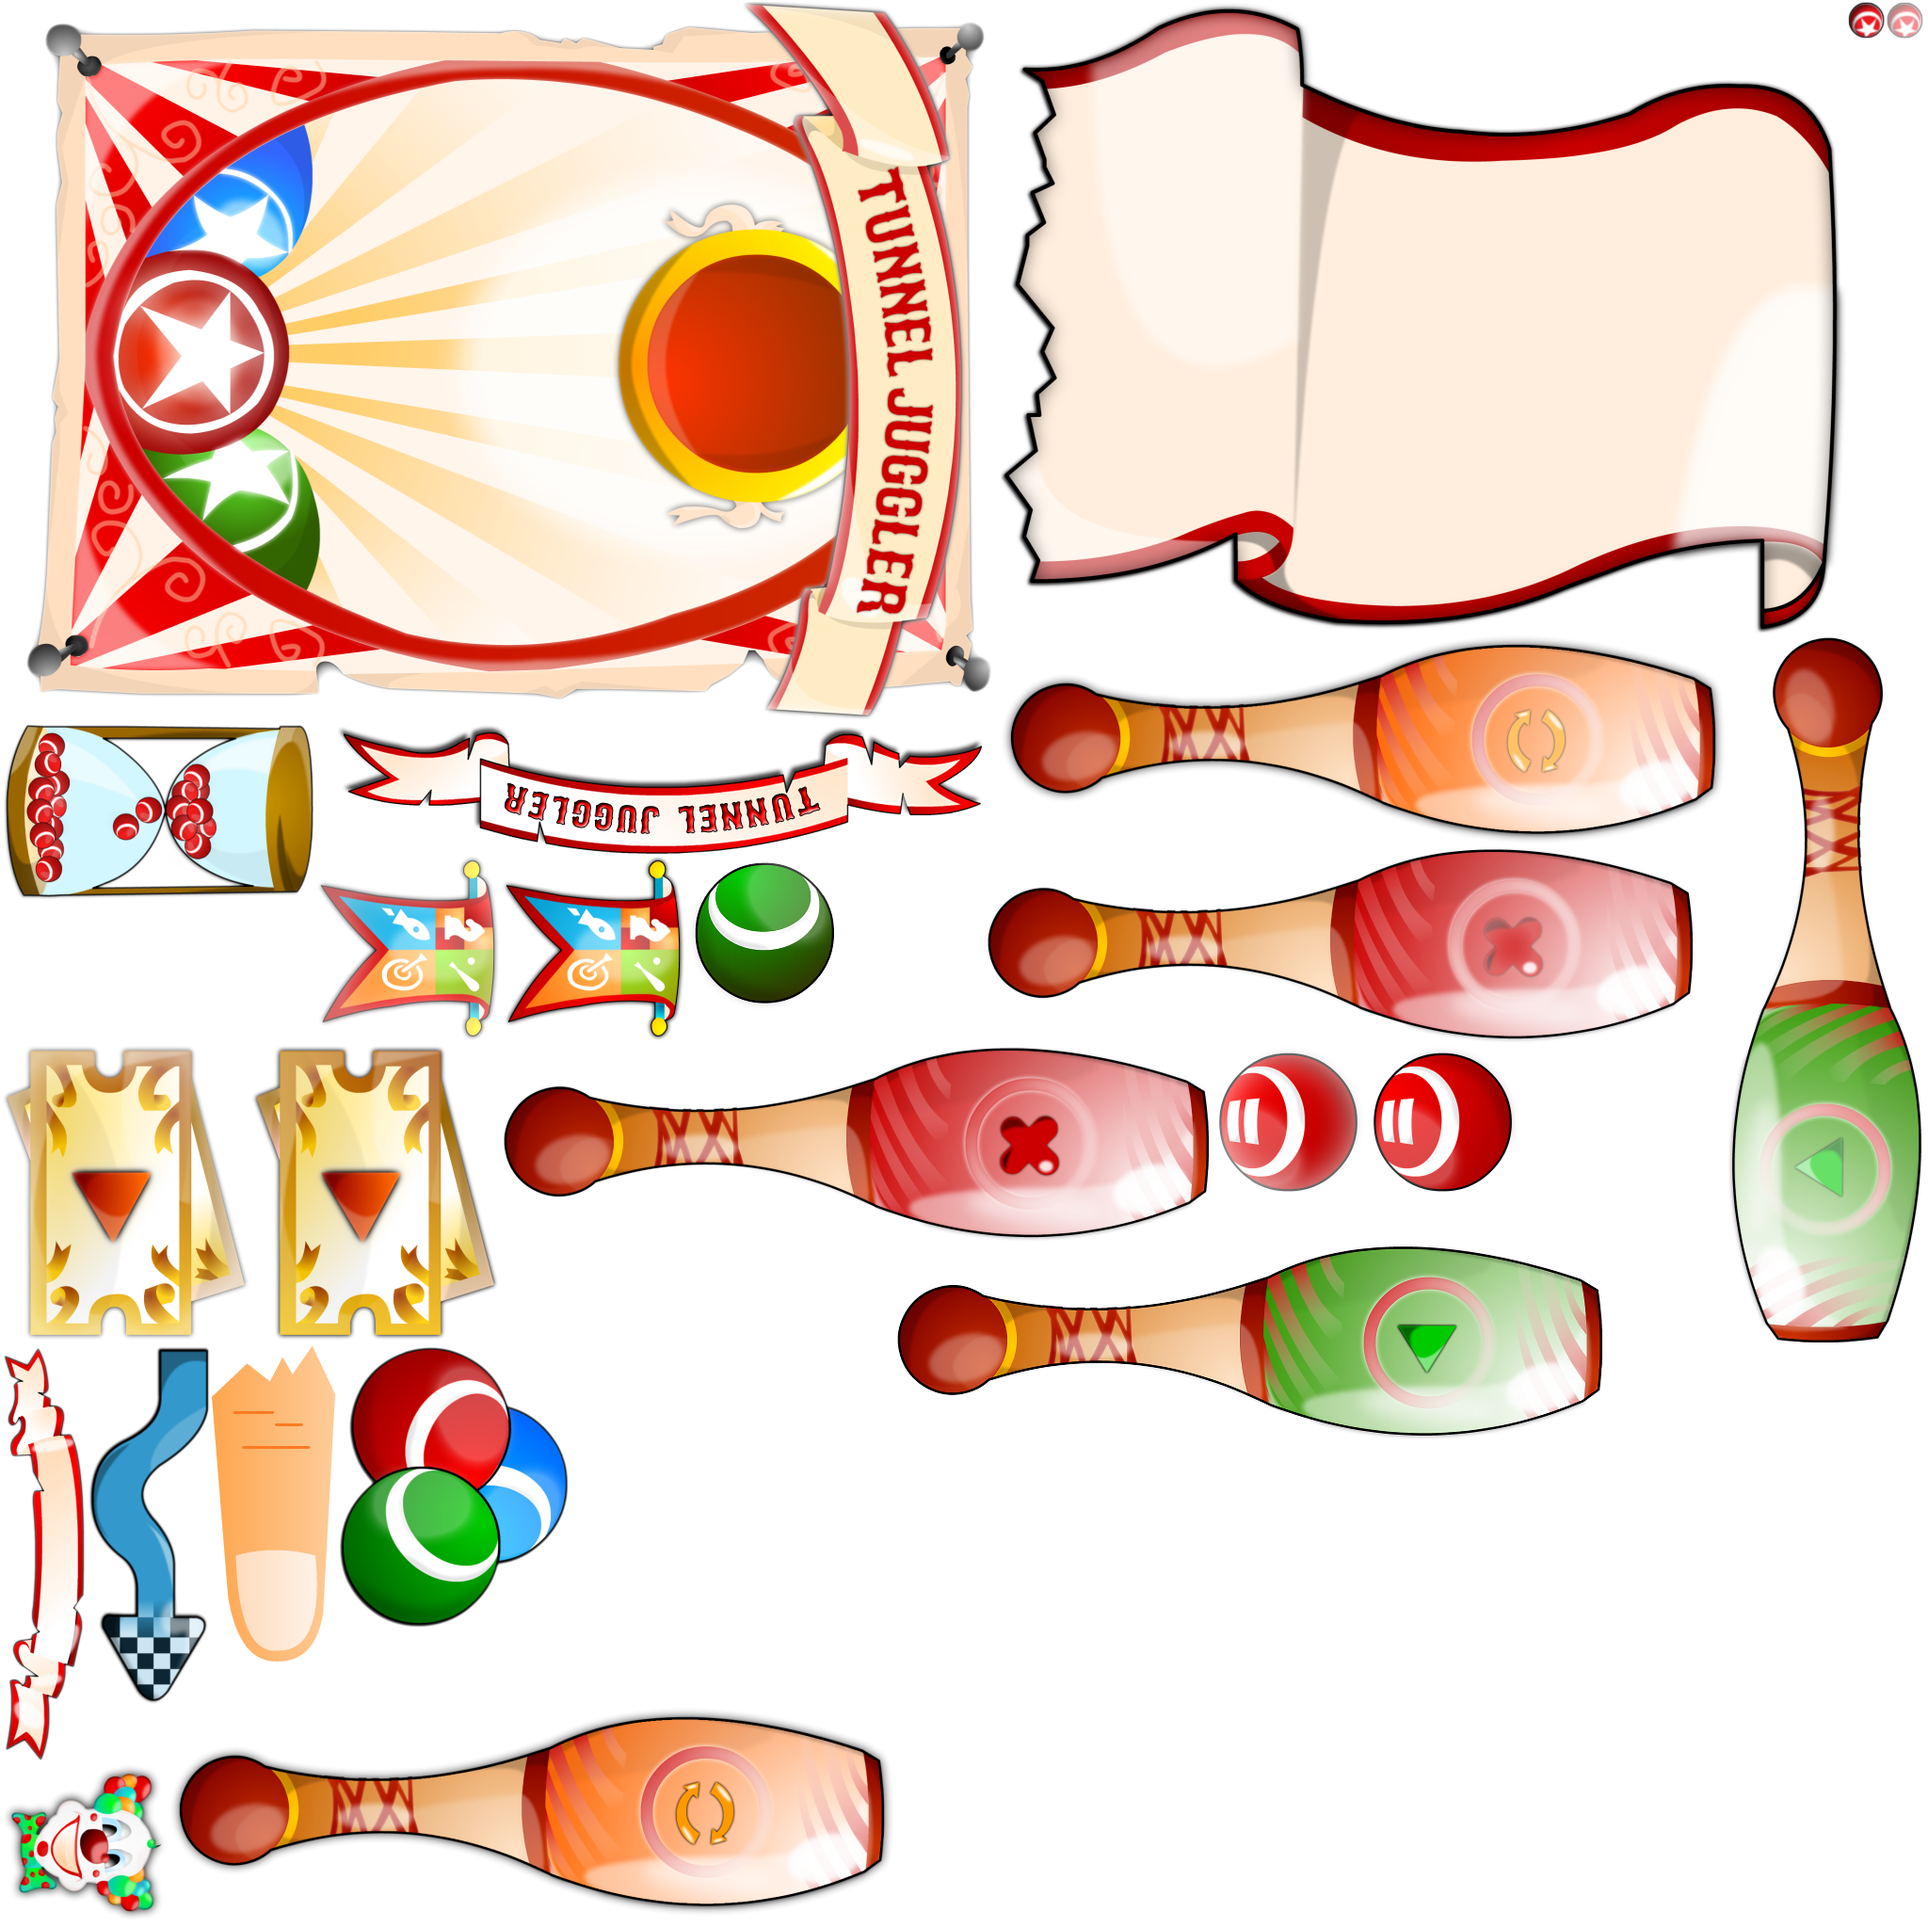
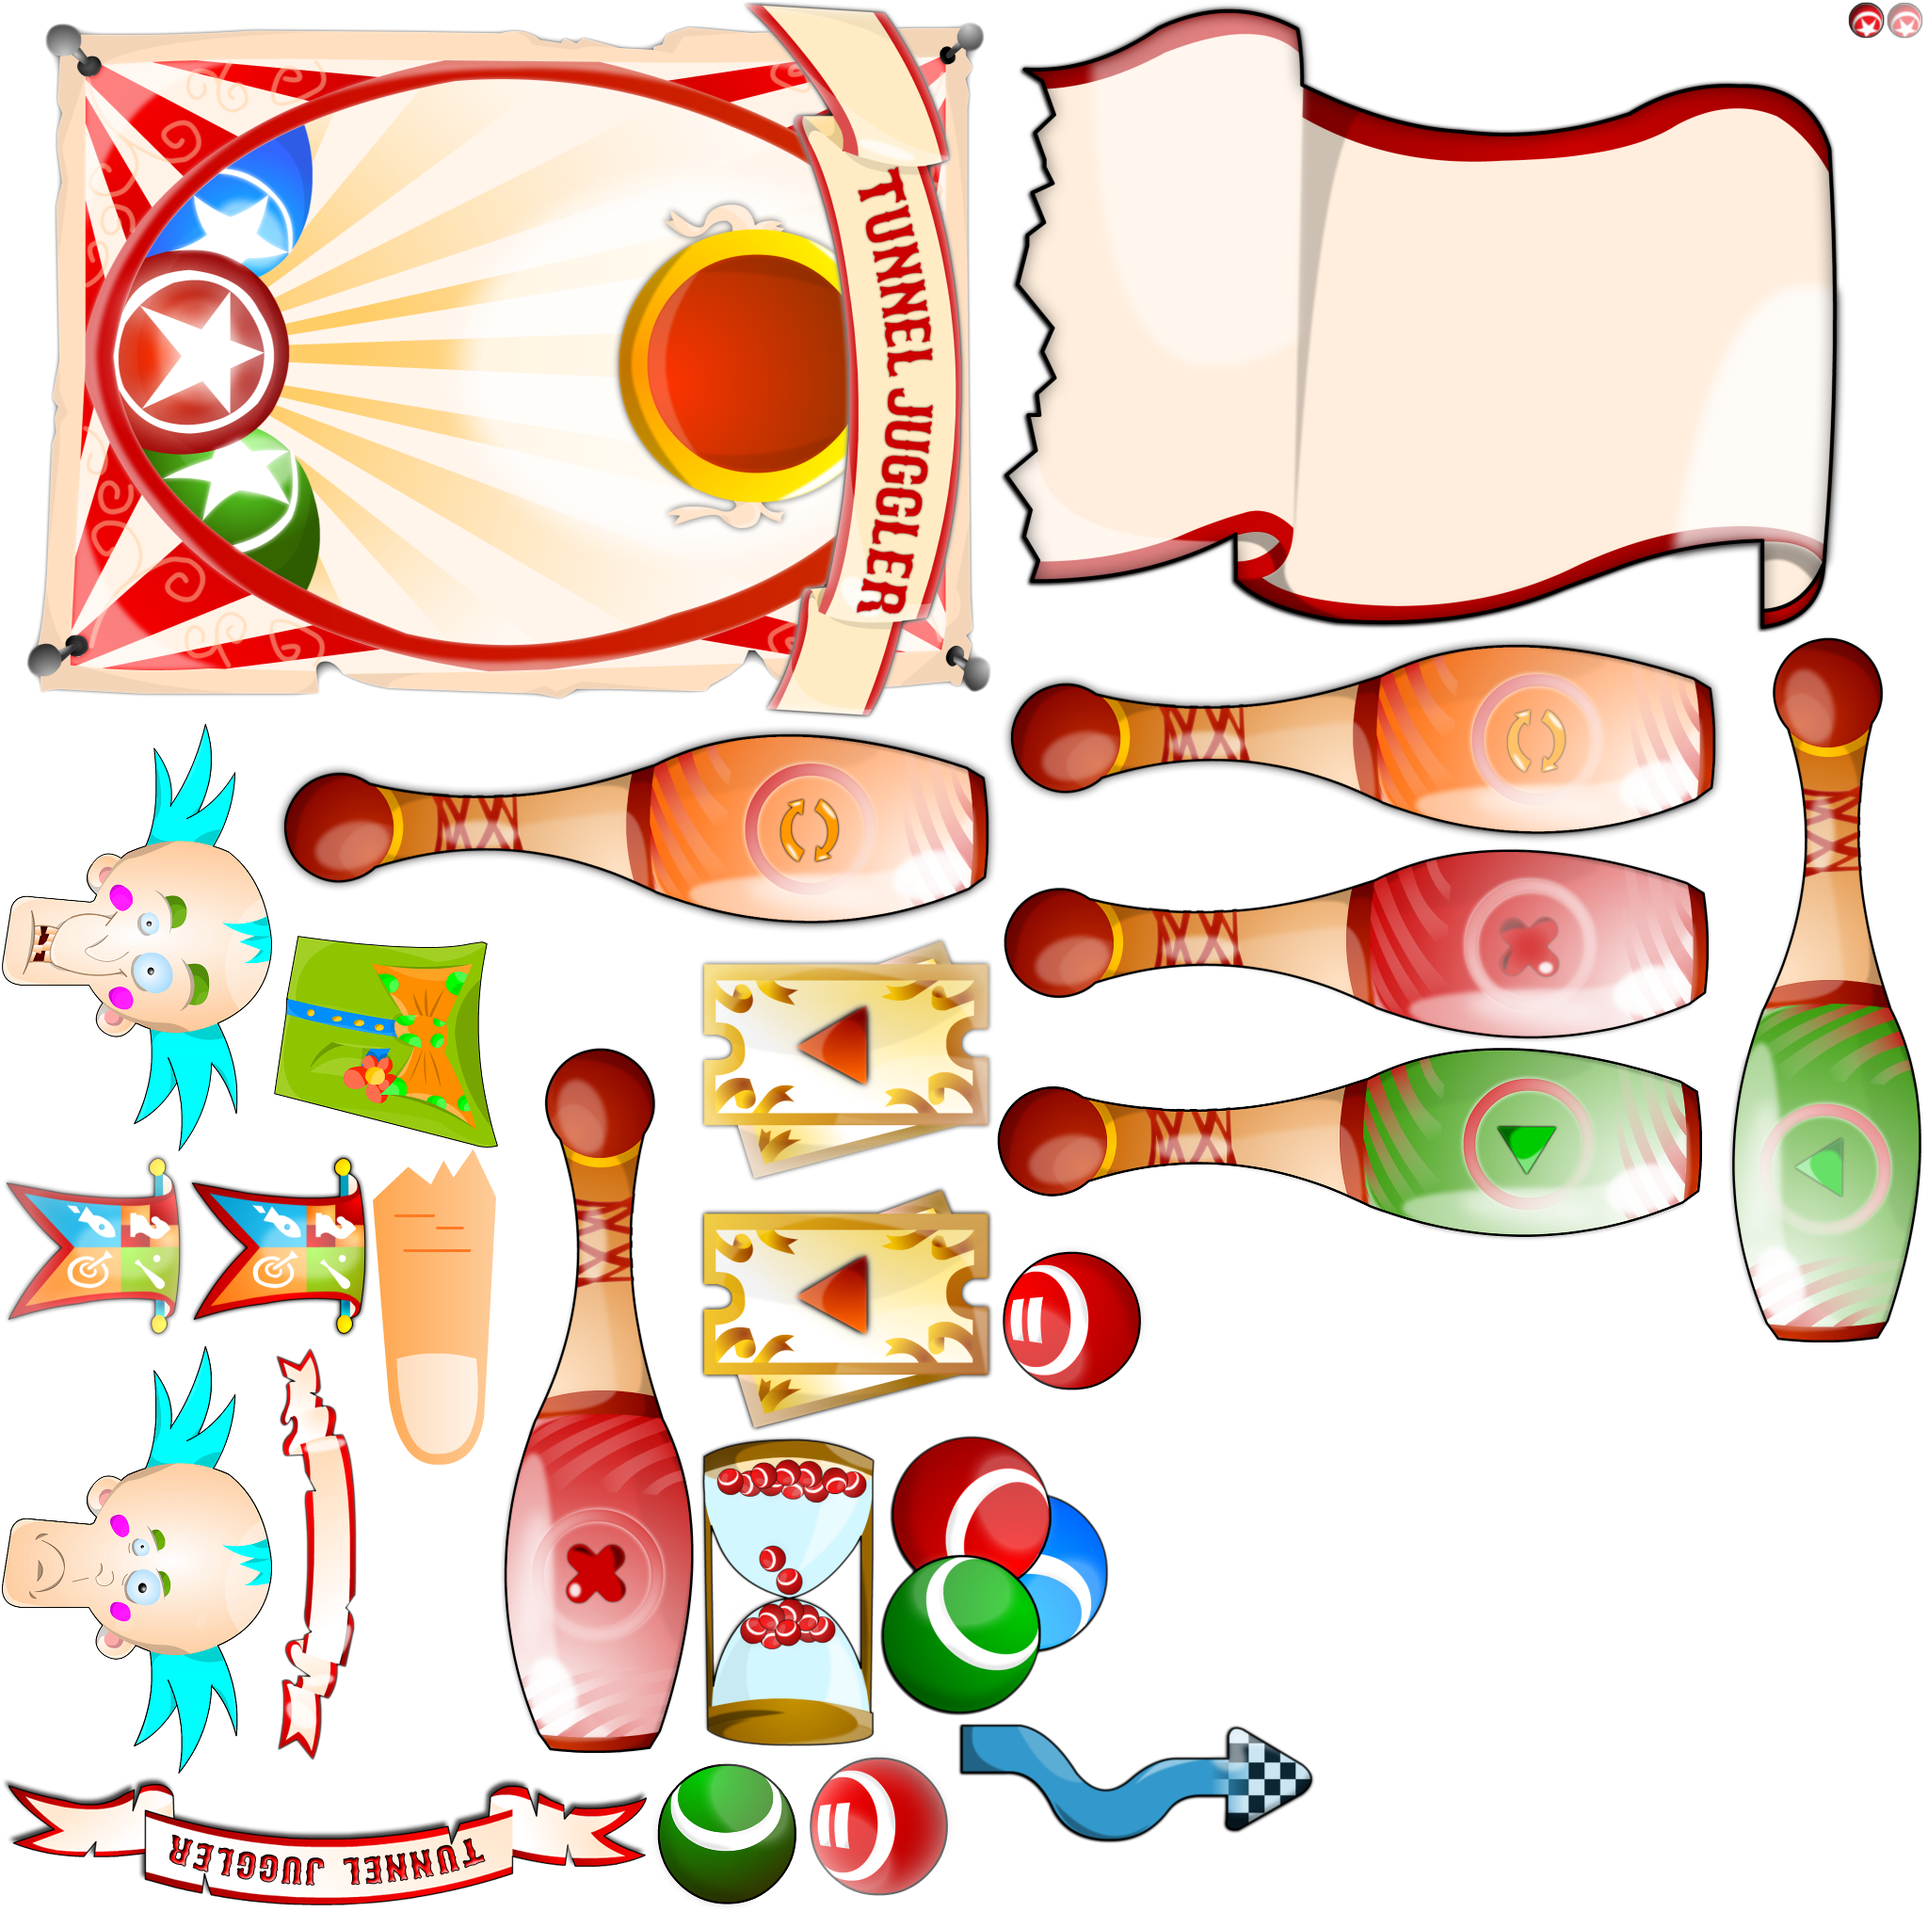
Added all remaining/improved graphics.

Changed region(s): [[0.0, 0.375, 0.9062, 1.0]]

diff --git a/TunnelJoggler/Scenes/MainScene.mm b/TunnelJoggler/Scenes/MainScene.mm
@@ -21,6 +21,7 @@
 - (void) createScoreLabelWithScore: (int) score;
 - (void) createCurrentLevelLabelWithLevel: (int) level;
 - (void) createExperienceDisplay: (int) experienceLevel;
+- (void) createVersionLabel;
 
 @property (retain, nonatomic, readwrite) CCMenuItem *itemUserPicture;
 @property (retain, nonatomic, readwrite) CCMenu *playerPictureMenu;
@@ -80,8 +81,14 @@
             [self addChild:menuPlay];
             
             //Clown face
-            CCSprite *spriteFromImageNormal = [CCSprite spriteWithSpriteFrameName: @"clown-face-happy.png"];
-            CCSprite *spriteFromImageSelected = [CCSprite spriteWithSpriteFrameName: @"clown-face-happy.png"];
+            CCSprite *spriteFromImageNormal = [CCSprite spriteWithSpriteFrameName: @"clown-happy.png"];
+            CCSprite *spriteFromImageSelected = [CCSprite spriteWithSpriteFrameName: @"clown-happy.png"];
+            spriteFromImageNormal.scale = 0.55;
+            spriteFromImageSelected.scale = 0.55;
+            if ([[UIDevice currentDevice] userInterfaceIdiom] == UIUserInterfaceIdiomPad) {
+                spriteFromImageNormal.scale = 0.65;
+                spriteFromImageSelected.scale = 0.65;
+            }
             [self setUserPictureForNormalState: spriteFromImageNormal
                                  selectedState: spriteFromImageSelected];
             
@@ -100,6 +107,8 @@
             
             // Current level
             [self createCurrentLevelLabelWithLevel:[p.currentLevel intValue]];
+            
+            [self createVersionLabel];
             
             //Game center
             CCMenuItem *itemGameCenter = [SoundMenuItem itemFromNormalSpriteFrameName:@"game-center-off.png" selectedSpriteFrameName:@"game-center-on.png" target:self selector:@selector(highScoreGameCenter:)];
@@ -172,6 +181,19 @@
     CGSize s = [[CCDirector sharedDirector] winSize];
     [_currentLevelLabel setPosition:ccp(s.width/2.48, s.height/2)];
     _currentLevelLabel.rotation = 90;
+}
+
+- (void) createVersionLabel {
+    float fontSize = 10.0;
+    if ([[UIDevice currentDevice] userInterfaceIdiom] == UIUserInterfaceIdiomPad) {
+        fontSize = 20.0;
+    }
+    CCLabelTTF *verLabel = [CCLabelTTF labelWithString:@"v1.0.0 beta" fontName:@"BosoxRevised.ttf" fontSize:fontSize];
+    verLabel.color = ccc3(255, 255, 255);
+    [self addChild:verLabel z:5];
+    CGSize s = [[CCDirector sharedDirector] winSize];
+    [verLabel setPosition:ccp(fontSize, s.height/2)];
+    verLabel.rotation = 90;
 }
 
 - (void) createExperienceDisplay: (int) experienceLevel {
@@ -268,7 +290,10 @@
                             ];
     self.itemUserPicture.isEnabled = NO;
     self.playerPictureMenu = [CCMenu menuWithItems: self.itemUserPicture, nil];
-    self.playerPictureMenu.position = ccp(s.width/1.33, s.height/2);
+    self.playerPictureMenu.position = ccp(s.width/1.22, s.height/1.52);
+    if ([[UIDevice currentDevice] userInterfaceIdiom] == UIUserInterfaceIdiomPad) {
+        self.playerPictureMenu.position = ccp(s.width/1.23, s.height/1.65);
+    }
     self.playerPictureMenu.isTouchEnabled = YES;
     [itemUserPicture runAction:[CCRepeatForever actionWithAction:seq]];
     [self addChild:self.playerPictureMenu z:3];

diff --git a/TunnelJoggler/HUD.mm b/TunnelJoggler/HUD.mm
@@ -74,15 +74,23 @@
         [self addChild:_pauseBackgroundColor z:1];
         _pauseBackgroundColor.visible = NO;
         
-        _happyClown = [CCSprite spriteWithSpriteFrameName:@"clown-face-happy.png"];
+        _clownBody = [CCSprite spriteWithSpriteFrameName:@"clown-body.png"];
+        [_clownBody setPosition:ccp(s.width/1.7, s.height/2)];
+        [self addChild:_clownBody z:2];
+        _clownBody.visible = NO;
+//        _clownBody.scale = 2.0;
+        
+        _happyClown = [CCSprite spriteWithSpriteFrameName:@"clown-happy.png"];
         [_happyClown setPosition:ccp(s.width/1.3, s.height/2)];
         [self addChild:_happyClown z:2];
         _happyClown.visible = NO;
+//        _happyClown.scale = 2.0;
         
-        _sadClown = [CCSprite spriteWithSpriteFrameName:@"clown-face-sad.png"];
+        _sadClown = [CCSprite spriteWithSpriteFrameName:@"clown-sad.png"];
         [_sadClown setPosition:ccp(s.width/1.3, s.height/2)];
         [self addChild:_sadClown z:2];
         _sadClown.visible = NO;
+//        _sadClown.scale = 2.0;
         
         //Score ribbon
         CCMenuItem *itemScoreRibbon = [SoundMenuItem itemFromNormalSpriteFrameName:@"score-frame.png" selectedSpriteFrameName:@"score-frame.png" target:nil selector:nil];
@@ -164,6 +172,7 @@
             item0 = [SoundMenuItem itemFromNormalSpriteFrameName:@"play-off.png" selectedSpriteFrameName:@"play-on.png" target:self selector:@selector(onNextLevelPressed:)];
             _happyClown.visible = YES;
         }
+        _clownBody.visible = YES;
         item0.rotation = -25;
         item1.rotation = 25;
         item0.scale = 0.7;

diff --git a/TunnelJoggler/Objects/Paddle.h b/TunnelJoggler/Objects/Paddle.h
@@ -7,7 +7,7 @@
 #import "cocos2d.h"
 #import "Box2D.h"
 
-static const float MAX_PADDLE_SPEED = 10.0;
+static const float MAX_PADDLE_SPEED = 8.0;
 static const float MIN_PADDLE_SPEED = 1.0;
 
 @interface Paddle : CCSprite {

diff --git a/TunnelJoggler/HUD.h b/TunnelJoggler/HUD.h
@@ -25,6 +25,7 @@
     CCLayerColor *_pauseBackgroundColor;
     CCSprite *_happyClown;
     CCSprite *_sadClown;
+    CCSprite *_clownBody;
     float _lastOffset;
     float _labelPosFactor;
 }
